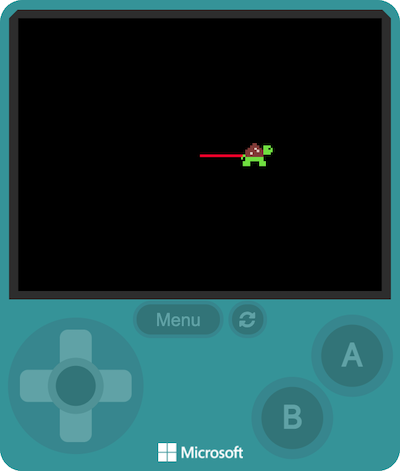
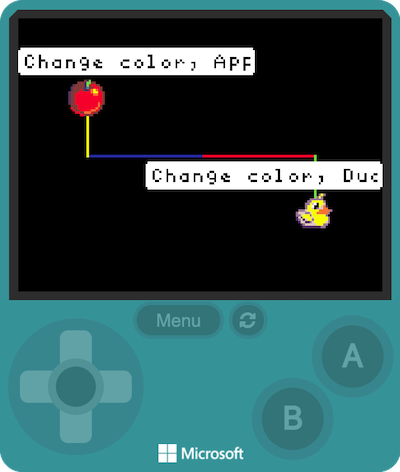
updated tutorial

diff --git a/README.md b/README.md
@@ -1,88 +1,37 @@
 ### @explicitHints true
 
-# Turtle Logo - Lesson #4
+# Turtle Logo - Lesson #4 - Advanced
 
-## Turtle Logo - Lesson #4 @unplugged
+## Turtle Logo - Lesson #4, with variables and sprites @unplugged
 **Making the Turtle's Pen Change Color.**
 
 In this lesson you will change the color of the trail the **Turtle** leaves.
-![color](https://github.com/Mr-Coxall/makecode-arcade-turtle-logo-lesson4/raw/main/assets/color_screenshot.png)
+![](https://github.com/Mr-Coxall/makecode-arcade-turtle-logo-lesson4-advanced/raw/main/assets/color_screenshot.png)
 
 ## Step 1
-** Follow Along**
-
-Once again, all our programs begin with an ⇢``on start``⇠ block. Then you need to add the **Turtle** using the ⇢``show turtle``⇠ block.
-```blocks
-turtle.showTurtle()
-```
-
-## Step 2
-** Follow Along**
-
-The **Turtle** by default leaves a white trail behind it. This color can be changed by using the ⇢set turtle's pen color to ▢⇠ block.
-```blocks
-turtle.showTurtle()
-turtle.setPenColor(1)
-```
-
-## Step 3
-** Follow Along**
-
-Inside the ⇢set turtle's pen color to ▢⇠ block, select the "▢" and select *red*. Now add a ⇢myTurtle move forward 25 steps⇠ block to see the new red trail.
-```blocks
-turtle.showTurtle()
-turtle.setPenColor(2)
-turtle.moveTurtleDirection(TurtleDirection.Forward, 25)
-```
-
-## Step 4
-** Follow Along**
-
-You can even change the color more than once. After moving forwards, add another ⇢set turtle's pen color to ▢⇠ block and change the color to *blue* then add forwards again.
-```blocks
-turtle.showTurtle()
-turtle.setPenColor(2)
-turtle.moveTurtleDirection(TurtleDirection.Forward, 25)
-turtle.setPenColor(8)
-turtle.moveTurtleDirection(TurtleDirection.Forward, 25)
-```
-
-## Step 5
-** Try it Out**
-
-Now try moving the **Turtle** some different distances, different directions, turning and changing color.
-```blocks
-turtle.showTurtle()
-turtle.setPenColor(8)
-turtle.moveTurtleDirection(TurtleDirection.Backward, 25)
-turtle.turnTurtleDirectionByDegrees(TurtleTurnDirection.Right, 90)
-turtle.setPenColor(2)
-turtle.moveTurtleDirection(TurtleDirection.Forward, 50)
-turtle.turnTurtleDirectionByDegrees(TurtleTurnDirection.Left, 90)
-turtle.setPenColor(7)
-turtle.moveTurtleDirection(TurtleDirection.Forward, 25)
-```
-
-## Step 6
-**Success!**
-
-You can now change the trail color the **Turtle** leaves.
-
-## Step 7
-**Your Turn**
-
-Get your **Turtle** to:
-- move
-- change its trail color
-- turn
-- move again
-- then say, "I can change colors!"
-
-## Step 8
-**Done**
-
-You have successfully completed your forth lesson in Turtle Logo.
+Code your solution below.
 
 ```ghost
-turtle.say("Hello, World!")
+let myTurtle = turtle.fromSprite(sprites.create(img`
+    . . . . . . . . . . . . . . . . 
+    . . . . . . . . . . . . . . . . 
+    . . . . . . . . . . . . . . . . 
+    . . . . . . . . . . . . . . . . 
+    . . . . . . . . . . . . . . . . 
+    . . . . . . . . . . . . . . . . 
+    . . . . . . . . . . . . . . . . 
+    . . . . . . . . . . . . . . . . 
+    . . . . . . . . . . . . . . . . 
+    . . . . . . . . . . . . . . . . 
+    . . . . . . . . . . . . . . . . 
+    . . . . . . . . . . . . . . . . 
+    . . . . . . . . . . . . . . . . 
+    . . . . . . . . . . . . . . . . 
+    . . . . . . . . . . . . . . . . 
+    . . . . . . . . . . . . . . . . 
+    `, SpriteKind.Player))
+myTurtle.moveDirection(TurtleDirection.Forward, 25)
+myTurtle.turnDirectionByDegrees(TurtleTurnDirection.Right, 90)
+myTurtle.setPenColor(0)
+myTurtle.say("Hello, World!")
 ```
